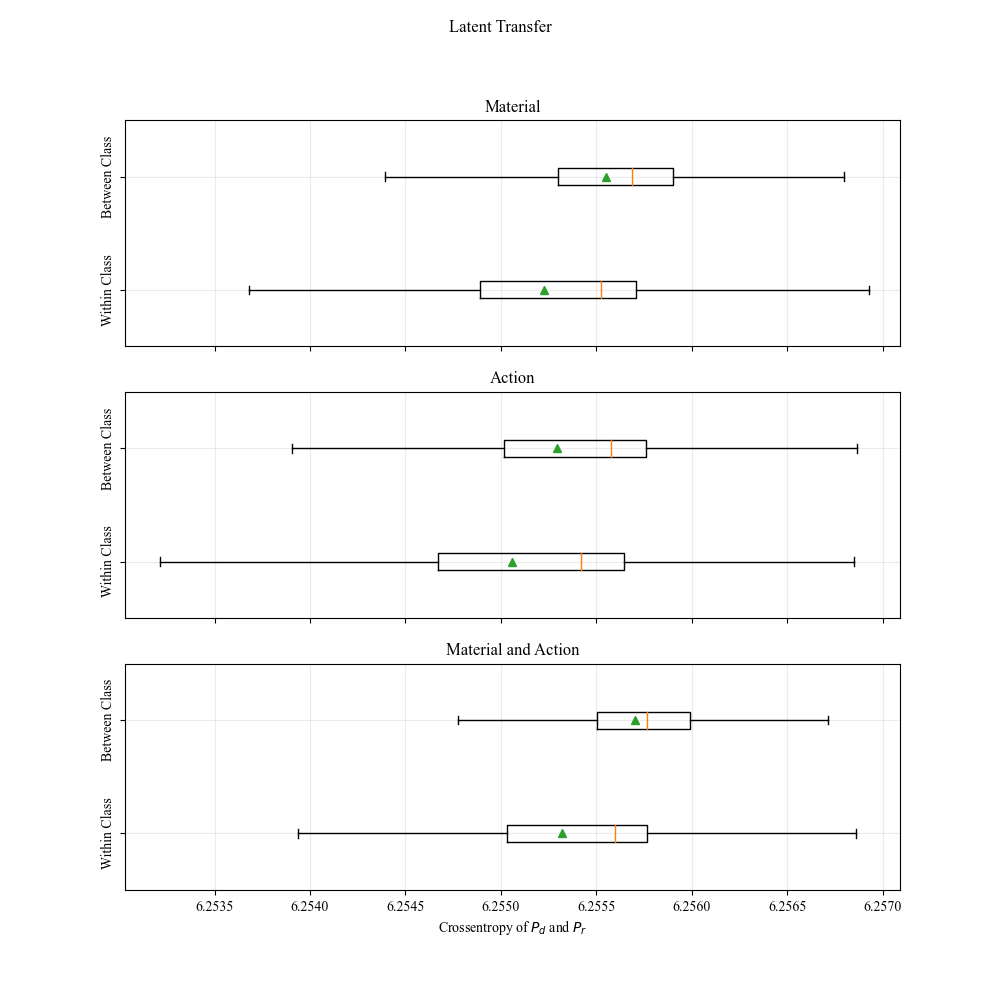
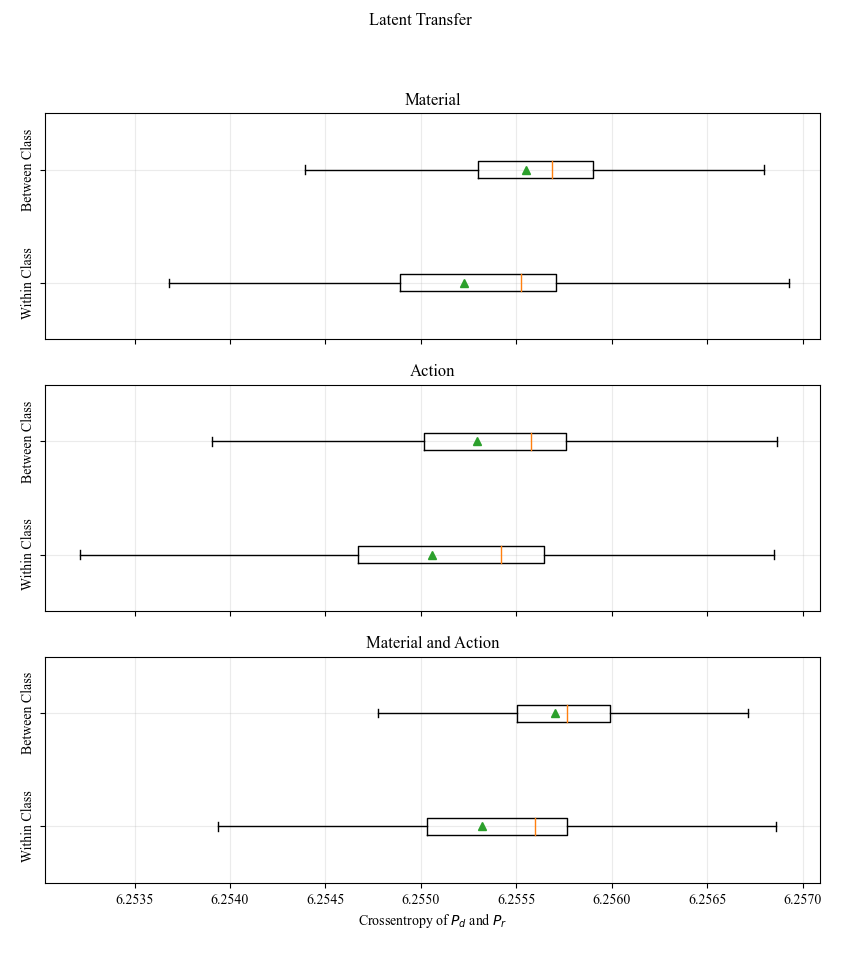
added new latent transfer

diff --git a/src/latent_audio/scripts/evaluate_disentangle.py b/src/latent_audio/scripts/evaluate_disentangle.py
@@ -124,7 +124,96 @@ def plot_permutation_test(Z_prime: np.ndarray, Y: np.ndarray, dimensions_per_fac
     
     plt.savefig(plot_save_path)
     plt.show()
+
+def plot_permutation_test2(Z_prime: np.ndarray, Y: np.ndarray, pre_scaler: Callable, pca: Callable, post_scaler: Callable, flow_network: Callable, layer_wise_yamnet: Callable, layer_index: int, plot_save_path: str) -> None:
+
+    entropy = lambda P, Q: P*np.log(Q)
+    dissimilarity_function = lambda P, Q: - np.sum(entropy(tf.nn.softmax(P, axis=1),tf.nn.softmax(Q, axis=1)),axis=1)
+    plt.figure(figsize=(10,6)); plt.suptitle('Latent Transfer')
+    b = 1
+    x_min = np.finfo(np.float32).max
+    x_max = np.finfo(np.float32).min
     
+    for factor_name, switch_factors in swops.items():
+        # Compute probability distributions
+        P, M, Q, M_to_P, M_to_Q = latent_transfer(Z_prime=Z_prime, Y=Y, dimensions_per_factor=dimensions_per_factor, switch_factors=switch_factors, baseline=True, pre_scaler=pre_scaler, pca=pca, post_scaler=post_scaler, flow_network=flow_network, layer_wise_yamnet=layer_wise_yamnet, layer_index=layer_index)
+        
+        # Compute dissimilarities
+        H_PM = np.concatenate([dissimilarity_function(P,M), dissimilarity_function(Q,M)]) # By symmetry, HQM and HPM can be merged
+        H_P_M_to_P = np.concatenate([dissimilarity_function(P,M_to_P), dissimilarity_function(Q,M_to_Q)]) # Again, merging due to symmetry
+        H_P_M_to_Q = np.concatenate([dissimilarity_function(P,M_to_Q), dissimilarity_function(Q,M_to_P)]) # Again, merging due to symmetry
+        
+        # Plot
+        plt.subplot(2,1,b); plt.title(factor_name)
+        plt.boxplot([baseline, experimental], showmeans=True, vert=False, showfliers=False)
+        plt.yticks([1,2], ['Within Class','Between Class'], rotation=90, va='center')
+        x_min = min(x_min, plt.xlim()[0])
+        x_max = max(x_max, plt.xlim()[1])
+        
+        b+=1
+    
+    # Set labels and range
+    plt.xlabel(r"Crossentropy of $P_d$ and $P_r$")
+    for i in range (1,b): 
+        plt.subplot(b-1,1,i); plt.xlim([x_min, x_max])
+        plt.grid(alpha=0.25)
+        if i < b-1: plt.gca().tick_params(labelbottom=False) 
+        
+    
+    plt.savefig(plot_save_path)
+    plt.show()
+
+def latent_transfer_2(Z_prime: np.ndarray, Y: np.ndarray, transfer_dimension: int, pre_scaler: Callable, pca: Callable, post_scaler: Callable, flow_network: Callable, layer_wise_yamnet: Callable, layer_index: int) -> None:
+
+    instance_count = Z_prime.shape[0]
+    
+    # 1. Disentangle
+
+    # 1.1 Apply standard scalers and pca
+    Z_prime = post_scaler.transform(pca.transform(pre_scaler.transform(Z_prime)))
+
+    # 1.2 Pass the top few dimensions through flow net
+    dimension_count = np.sum(dimensions_per_factor)
+    Z_tilde = flow_network(Z_prime[:,:dimension_count]).numpy()
+
+    # Split data into 3 tertiles
+    t12, t23 = np.quantile(Z_tilde[:,transfer_dimension], [0.33, 0.67]) # Boundaries of tertiles
+    Q_indices = np.where(Z_tilde[:, transfer_dimension] <= t12)
+    M_indices = np.where(np.logical_and(t12 < Z_tilde[:,transfer_dimension], Z_tilde[:,transfer_dimension] <= t23))
+    P_indices = np.where(t23 < Z_tilde[:,transfer_dimension])
+    cutoff = np.min([len(Q_indices), len(M_indices), len(P_indices)]) # Crop all to equal length
+    Q_indices = Q_indices[:cutoff]
+    M_indices = M_indices[:cutoff]
+    P_indices = P_indices[:cutoff]
+
+    # Compute Q,M,P via yamnet
+    layer_index_to_shape = [ [instance_count, 48, 32, 32],  [instance_count, 48, 32, 64],  [instance_count, 24, 16, 128],  [instance_count, 24, 16, 128],  [instance_count, 12, 8, 256],  [instance_count, 12, 8, 256], [instance_count, 6, 4, 512], [instance_count, 6, 4, 512], [instance_count, 6, 4, 512], [instance_count, 6, 4, 512], [instance_count, 6, 4, 512], [instance_count, 6, 4, 512], [instance_count, 3, 2, 1024], [instance_count, 3, 2, 1024]]
+    Q = layer_wise_yamnet.call_from_layer(np.reshape(Z_prime[Q_indices], layer_index_to_shape[layer_index]), layer_index=layer_index+1).numpy()
+    M = layer_wise_yamnet.call_from_layer(np.reshape(Z_prime[M_indices], layer_index_to_shape[layer_index]), layer_index=layer_index+1).numpy()
+    P = layer_wise_yamnet.call_from_layer(np.reshape(Z_prime[P_indices], layer_index_to_shape[layer_index]), layer_index=layer_index+1).numpy()
+    
+    # Perform latent transfer from M to Q and to P
+    Z_tilde_M_to_Q = np.copy(Z_tilde[M_indices])
+    Z_tilde_M_to_Q[:, transfer_dimension] = Z_tilde[Q_indices, transfer_dimension]
+    Z_tilde_M_to_P = np.copy(Z_tilde[M_indices])
+    Z_tilde_M_to_P[:, transfer_dimension] = Z_tilde[P_indices, transfer_dimension]
+
+    # Replace top few dimensions with inverse
+    Z_prime_M_to_Q = np.copy(Z_prime[M_indices])
+    Z_prime_M_to_Q[:,:dimension_count] = flow_network.invert(Z_tilde_M_to_Q)
+    Z_prime_M_to_P = np.copy(Z_prime[M_indices])
+    Z_prime_M_to_P[:,:dimension_count] = flow_network.invert(Z_tilde_M_to_P)
+
+    # Invert full pca, invert scaler
+    Z_prime_M_to_Q = pre_scaler.inverse_transform(pca.inverse_transform(post_scaler.inverse_transform(Z_prime_M_to_Q)))
+    Z_prime_M_to_P = pre_scaler.inverse_transform(pca.inverse_transform(post_scaler.inverse_transform(Z_prime_M_to_P)))
+    
+    # Continue processing through yamnet
+    M_to_Q = layer_wise_yamnet.call_from_layer(np.reshape(Z_prime_M_to_Q, layer_index_to_shape[layer_index]), layer_index=layer_index+1).numpy()
+    M_to_P = layer_wise_yamnet.call_from_layer(np.reshape(Z_prime_M_to_P, layer_index_to_shape[layer_index]), layer_index=layer_index+1).numpy()
+    
+    # Outputs
+    return P, M, Q, M_to_P, M_to_Q
 
 def latent_transfer(Z_prime: np.ndarray, Y: np.ndarray, dimensions_per_factor: List[int], switch_factors:[str], baseline:bool, pre_scaler: Callable, pca: Callable, post_scaler: Callable, flow_network: Callable, layer_wise_yamnet: Callable, layer_index: int) -> None:
 
